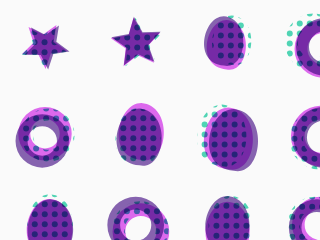
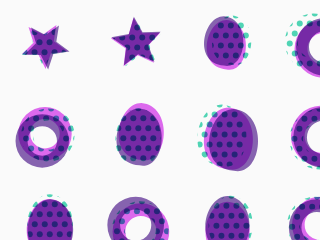
fix(presets): final-review minors — halftone stagger, dead code
- screenprint: the halftone row stagger was a no-op (fractional modulo
  always truthy); rows now alternate on an integer counter.
- art-nouveau: drop a dead no-op line; cyanotype: drop the unused
  per-plant phase field (shifts its seeded layout — baseline regenerated
  along with screenprint's, container-verified deterministic).

diff --git a/src/presets/screenprint.js b/src/presets/screenprint.js
@@ -89,10 +89,11 @@ export function create({ c2d, getColors, pxScale }) {
           motifPath(m.kind, m.r, m.rot);
           c2d.clip();
           const dot = 5 * px;
-          for (let yy = -m.r; yy <= m.r; yy += dot * 2) {
+          let row = 0;
+          for (let yy = -m.r; yy <= m.r; yy += dot * 2, row++) {
             for (let xx = -m.r; xx <= m.r; xx += dot * 2) {
               c2d.beginPath();
-              c2d.arc(xx + ((yy / (dot * 2)) % 2 ? dot : 0), yy, dot * 0.6, 0, Math.PI * 2);
+              c2d.arc(xx + (row % 2 ? dot : 0), yy, dot * 0.6, 0, Math.PI * 2);
               c2d.fill();
             }
           }

diff --git a/src/presets/art-nouveau.js b/src/presets/art-nouveau.js
@@ -37,7 +37,6 @@ export function create({ c2d, getColors, pxScale }) {
           bud: rand() < 0.35,
         });
         len *= 0.78;
-        heading += 0;
       }
       vines.push({ start, heading, segs, phase: rand() * Math.PI * 2, ci: (rand() * 3) | 0 });
     }

diff --git a/src/presets/cyanotype.js b/src/presets/cyanotype.js
@@ -33,7 +33,6 @@ export function create({ c2d, getColors, pxScale }) {
         lean: -0.4 + rand() * 0.8,
         kind: (rand() * 3) | 0, // fern / sprig / seed-head
         leaflets: 7 + ((rand() * 6) | 0),
-        phase: rand() * Math.PI * 2,
       });
     }
     lastKey = `${params.seed}|${params.density}`;